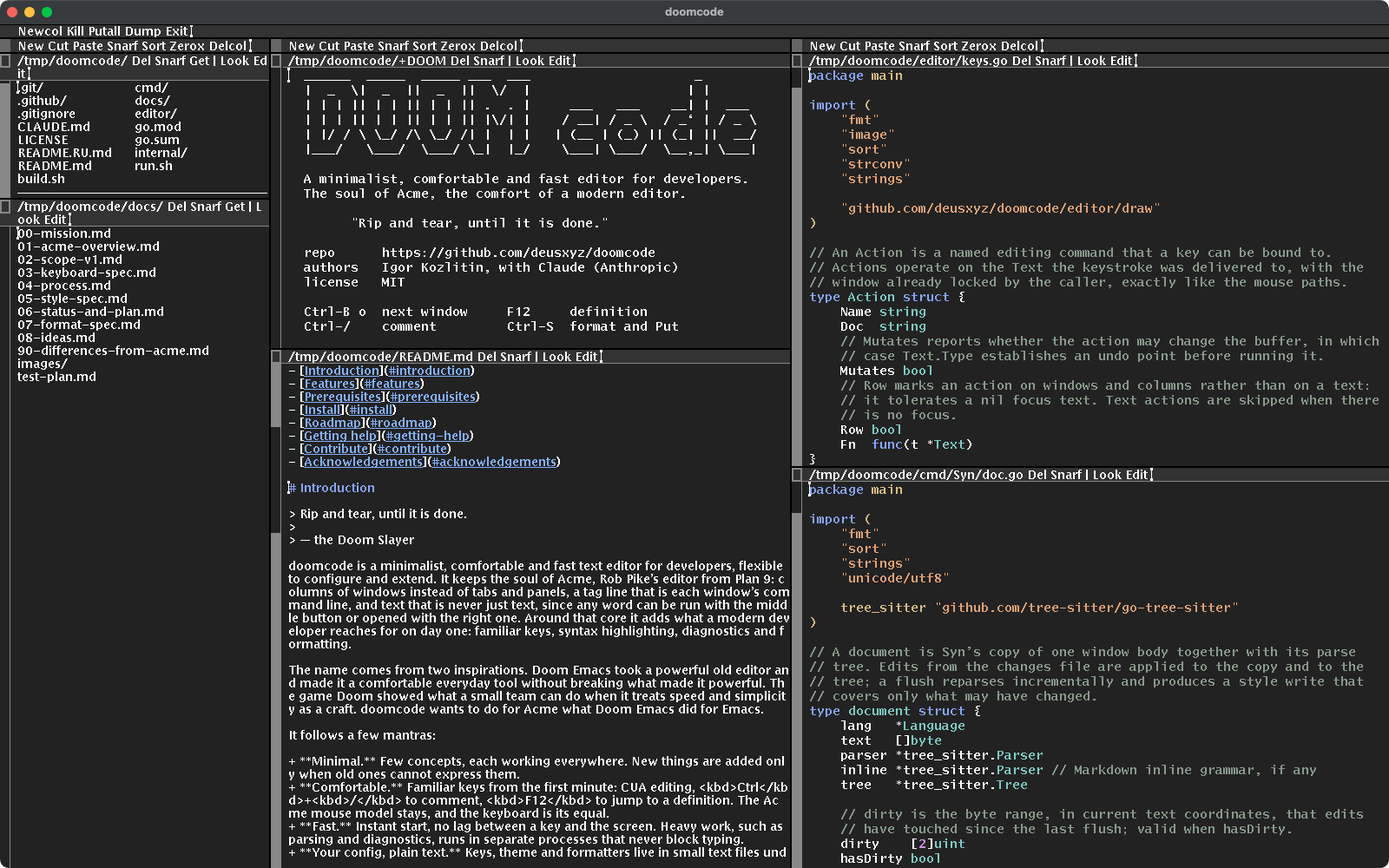
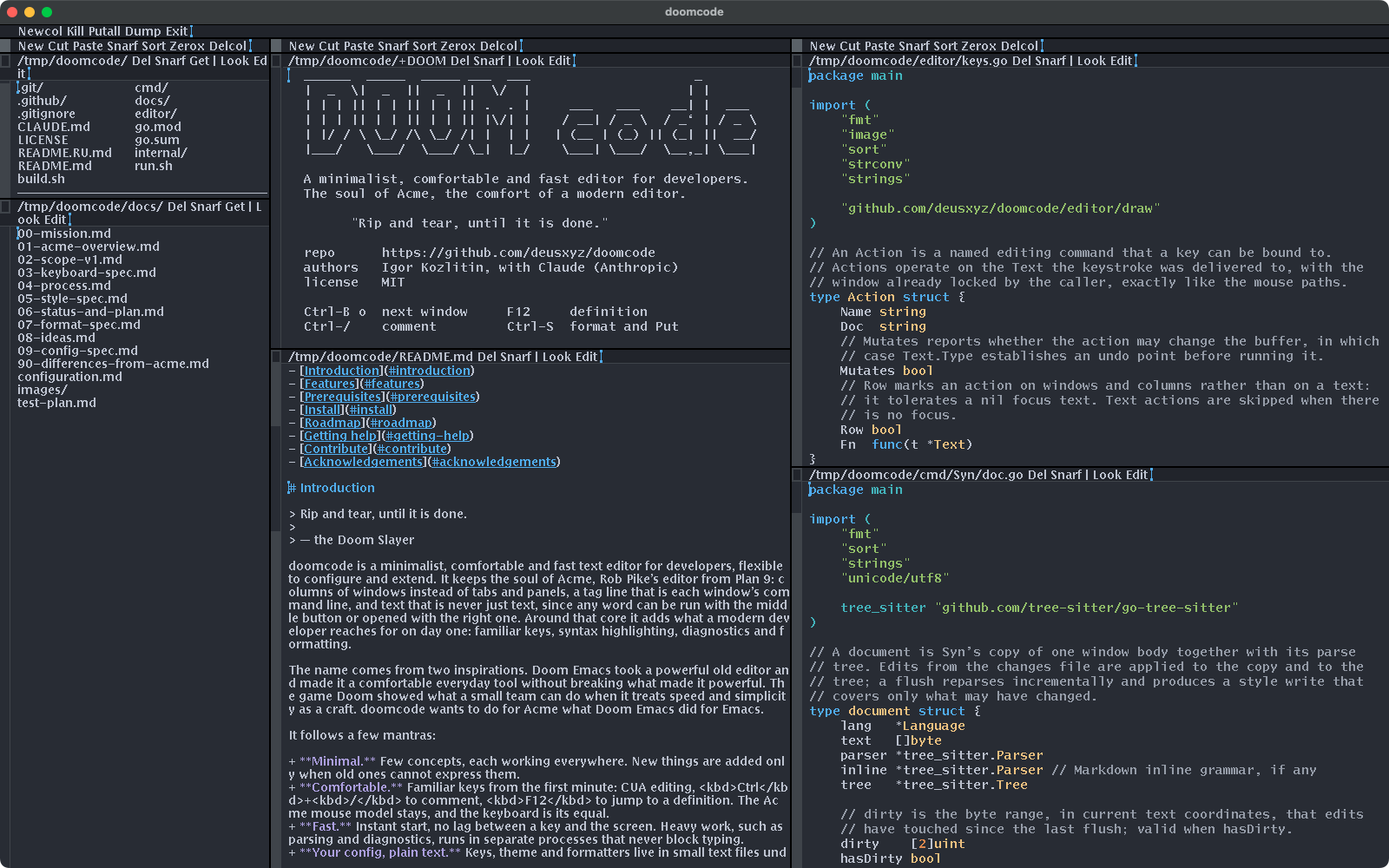
docs: theme style guide; decisions on the configuration spec
docs/10-theme-style-guide.md sets the principles and contrast ranges
for doomcode's palettes and records how doom-light and doom-dark were
derived. The configuration spec takes the user's answers: a general
config file next to keys, theme and fmt; polling the system appearance
every 5 seconds; doom-light by default; fonts to be chosen from
screenshots. The README screenshot is retaken in doom-dark, and the
screenshot script now takes an output path and fonts.

diff --git a/docs/09-config-spec.md b/docs/09-config-spec.md
@@ -1,6 +1,6 @@
 # Настройка: конфиг, системная тема, мягкие палитры (идеи 2, 3 и 6)
 
-Черновик спецификации от 2026-10-08. Идеи из `docs/08` §2, §3, §6, замечание пользователя: «непонятно, как настраивать редактор». Текущее устройство описано в `docs/configuration.md`. Решения пользователя отмечены «**Решено**», мои предложения — «**Предлагаю**», вопросы — в §7.
+Спецификация от 2026-10-08, вопросы §7 решены пользователем в тот же день. Идеи из `docs/08` §2, §3, §6, замечание пользователя: «непонятно, как настраивать редактор». Текущее устройство описано в `docs/configuration.md`. Решения пользователя отмечены «**Решено**», мои предложения — «**Предлагаю**», вопросы — в §7.
 
 ## 1. Цель
 
@@ -28,13 +28,13 @@
 
 ### 4.1 Общий файл `config`
 
-**Предлагаю** добавить в `~/.config/doomcode/` файл **`config`** для общих настроек, а `keys`, `theme`, `fmt` оставить отдельными: это списки, их удобно сбрасывать и переносить по частям. Формат тот же, что у остальных: `имя значение`, `#` — комментарий.
+**Решено:** добавить в `~/.config/doomcode/` файл **`config`** для общих настроек, а `keys`, `theme`, `fmt` оставить отдельными: это списки, их удобно сбрасывать и переносить по частям. Формат тот же, что у остальных: `имя значение`, `#` — комментарий.
 
 ```
 # ~/.config/doomcode/config
 font          /mnt/font/HelveticaNeue/14a/font
 font.fixed    /mnt/font/Menlo-Regular/14a/font
-palette       auto            # auto | имя палитры | путь к файлу темы
+palette       doom-light      # auto | имя палитры | путь к файлу темы
 palette.light doom-light      # для auto
 palette.dark  doom-dark
 window        1600x1000       # как -W
@@ -67,11 +67,11 @@ tabexpand     off
 
 ### 5.1 `palette auto`
 
-**Предлагаю** по умолчанию `palette auto`: светлая палитра, когда система в светлом оформлении, тёмная — в тёмном, с переключением на ходу.
+**Решено:** режим `palette auto` есть, но **по умолчанию `doom-light`** (и в коде, и в примере конфига); `auto` включается строкой в конфиге: светлая палитра, когда система в светлом оформлении, тёмная — в тёмном, с переключением на ходу.
 
 - **Как узнать оформление.** macOS: `defaults read -g AppleInterfaceStyle` (выводит `Dark` или завершается с ошибкой в светлом режиме). Linux: `gsettings get org.gnome.desktop.interface color-scheme` (`prefer-dark`), иначе светлая.
 - **Как заметить смену.** devdraw о смене оформления не сообщает. Варианты:
-  1. **Опрос** раз в 3 секунды из горутины редактора. Просто, работает везде, стоит один короткий процесс раз в 3 с. **Предлагаю для первой версии.**
+  1. **Опрос** раз в **5 секунд** из горутины редактора. Просто, работает везде, стоит один короткий процесс раз в 5 с. **Решено для первой версии** (пользователь: «не будем сильно напрягать систему»).
   2. **Патч devdraw** (наша ветка `devdraw/modkeys` plan9port): подписка на `AppleInterfaceThemeChangedNotification` и событие клиенту. Мгновенно, но расширяет протокол devdraw. Позже, если опрос окажется заметным.
 - **Что нужно в редакторе.** Сейчас палитру окон можно сменить только перезапуском: каждый frame копирует цвета при создании. Нужна смена палитры на ходу — заново выделить цвета, пройти все окна, колонки и строку тегов, перерисовать. Заодно это даст `Theme reload` для слотов палитры и команду `Theme <имя>` для пробы тем. Это основная работа в коде.
 
@@ -84,7 +84,7 @@ tabexpand     off
 
 **Проблема** (пользователь): резкий контраст между яркими и тёмными цветами.
 
-**Предлагаю** две новые палитры по умолчанию для `palette auto` — **`doom-light`** и **`doom-dark`**; `acme`, `vampira`, `solarized*` остаются для желающих. Правила подбора:
+**Решено:** две новые палитры — **`doom-light`** (по умолчанию) и **`doom-dark`**; правила подбора вынесены в style guide `docs/10-theme-style-guide.md`. **Сделано 2026-10-08:** обе палитры в `editor/theme/doom.go`, `doom-light` — палитра по умолчанию, тест контраста `TestDoomPalettesContrast`. doom-light — смягчённый `acme`, doom-dark — по мотивам doom-one (тема doomemacs.org); `acme`, `vampira`, `solarized*` остаются для желающих. Правила подбора:
 
 | Что | Правило |
 |---|---|
@@ -99,20 +99,21 @@ tabexpand     off
 - **Проверка** — тест считает контраст по формуле WCAG для каждой встроенной палитры и падает, если пара выходит за диапазон таблицы; плюс скриншоты обеих палитр для сравнения (сценарий `docs/images/screenshot/shoot.sh` принимает палитру).
 - **Темы файлами.** Встроенные палитры переносятся из кода в файлы `config/themes/<имя>` (формат файла `theme`), вшитые в программу; свой файл в `~/.config/doomcode/themes/` с тем же именем перекрывает встроенный. Это мост к идее 5 («больше тем»).
 
-## 7. Открытые вопросы
+## 7. Решения пользователя (2026-10-08)
 
-1. **Один общий файл `config` плюс `keys`/`theme`/`fmt`** (как в §4.1) — или всё в одном файле с разделами?
-2. **Опрос раз в 3 секунды** для `palette auto` в первой версии — подходит, или сразу патч devdraw?
-3. **Имена новых палитр** `doom-light` / `doom-dark` — подходят?
-4. **Шрифты по умолчанию на macOS**: пропорциональный для текста (как в Acme) и моноширинный для кода — или моноширинный везде? Menlo как моноширинный — подходит?
-5. **Остаётся ли `acme` (жёлтая) палитрой по умолчанию** для тех, кто запускает без конфига, или по умолчанию сразу `auto`?
+1. **Файлы:** один общий `config` плюс отдельные `keys`, `theme`, `fmt`.
+2. **`palette auto`:** опрос системы раз в 5 секунд, без патча devdraw.
+3. **Имена палитр:** `doom-light` и `doom-dark`.
+4. **Шрифты:** выбрать по скриншотам. Сняты варианты (doom-light): Lucida plan9port (как сейчас); Helvetica Neue 14 для текста + Menlo 13 для кода; Menlo 13 везде; Avenir 14 + Menlo 13; и doom-dark с Lucida и с Helvetica Neue + Menlo. Сценарий: `docs/images/screenshot/shoot.sh <палитра> <размер> <файл> <шрифт> <моноширинный>`. **Ждёт выбора.**
+5. **По умолчанию `doom-light`** и в коде, и в конфиге; светлая скопирована из `acme` со смягчением по требованиям к палитре.
+6. **Style guide тем** до реализации новых тем — `docs/10-theme-style-guide.md`; тёмная — по референсу сайта Doom Emacs.
 
 ## 8. Порядок работ (после ответов)
 
 1. Справка `docs/configuration.md` (готово) и каталог примеров `config/` с тестом «пример = умолчания».
 2. Файл `config`, порядок значений §3, шрифты; команды `Config`, `Config init/reset/reload/defaults`, клавиши `Cmd-,` и `Ctrl-B ,`.
 3. Смена палитры на ходу; `Theme <имя>`; `Theme reload` для слотов.
-4. Палитры `doom-light`/`doom-dark` с тестом контраста; темы файлами.
+4. ~~Палитры `doom-light`/`doom-dark` с тестом контраста~~ (готово 2026-10-08); темы файлами.
 5. `palette auto` с опросом системы.
 
 Каждый шаг — тесты, запись в `docs/90`, пункт в `docs/test-plan.md`, обновление `docs/configuration.md`.

diff --git a/docs/10-theme-style-guide.md b/docs/10-theme-style-guide.md
@@ -1,0 +1,58 @@
+# Style guide тем doomcode
+
+Принято 2026-10-08. Концепт, по которому делаются и проверяются палитры doomcode. Требование пользователя: мягкие цвета, рекомендуемые в дизайне, без резкого контраста между яркими и тёмными. Решения по настройке тем — `docs/09-config-spec.md`.
+
+## 1. Принципы
+
+1. **Спокойно, но читаемо.** Контраст достаточный для долгого чтения и не больше: чёрный на белом (21:1) утомляет так же, как бледный текст.
+2. **Фон не бывает чисто белым или чёрным.** Светлый — тёплый кремовый, тёмный — графитовый с лёгкой синевой.
+3. **Цвета подсветки одного веса.** Ключевые слова, строки, типы различаются оттенком, а не яркостью: ни один цвет не «кричит» сильнее остальных.
+4. **Комментарии тише кода, но читаемы.** Это не фон, а текст, который тоже читают.
+5. **Служебное не спорит с текстом.** Выделение, теги, полосы прокрутки — низкий контраст к фону, различие оттенком.
+6. **Диагностика заметна, но не тревожна.** Мягкий фон и подчёркивание приглушённым цветом; текст на фоне ошибки читается так же, как основной.
+7. **Цвета берём у проверенных палитр** с открытыми лицензиями и указываем источник.
+
+## 2. Числа
+
+Контраст по формуле WCAG 2 (отношение относительных яркостей). Проверяется тестом `TestDoomPalettesContrast` (`editor/theme/doom_test.go`) для каждой палитры doomcode.
+
+| Что | Против чего | Диапазон | Почему |
+|---|---|---|---|
+| Основной текст | фон окна | 7–12 | не ниже WCAG AAA (7), но заметно мягче 21:1 |
+| Текст тега | фон тега | 7–12 | то же |
+| Комментарии | фон окна | 4.5–6.5 | не ниже WCAG AA (4.5), тише основного |
+| Цвета подсветки (keyword, string, number, constant, type, function, preproc, heading, link) | фон окна | 4.5–9 | читаемы, но не ярче основного текста |
+| Выделение | фон окна | 1.1–1.8 | видно, но не режет |
+| Основной текст | фон диагностики (error, warning, info, hint) | ≥ 7 | текст под подчёркиванием читается как обычно |
+
+## 3. Палитры
+
+### doom-light — по умолчанию
+
+Смягчённый `acme`: тот же характер (светло-жёлтое тело, голубовато-зелёные теги), но тёплее и без насыщенности, тёмно-серый текст вместо чёрного. Цвета подсветки — приглушённые синий, коричневый, фиолетовый, бирюзовый, одной светлоты.
+
+| Слот | acme (было) | doom-light | Контраст к фону |
+|---|---|---|---|
+| фон окна | `#FFFFD5` | `#FBF8E8` | — |
+| фон тега | `#D5FFFF` | `#E4F1EF` | — |
+| текст | `#000000` | `#3A3A34` | 10.7 (было 20.5) |
+| выделение | `#EEEE9E` | `#ECE4B0` | 1.2 |
+| комментарий | `#6B7F6B` | `#646F61` | 4.9 (было 4.2 — ниже AA) |
+| keyword / string / number / type | `#1F3A93` `#8B4A1F` `#6A2E8F` `#1C6E6E` | `#35539A` `#94552B` `#7A4C98` `#2E716F` | 5.3–6.9 (было 5.9–9.8) |
+
+### doom-dark
+
+По мотивам **doom-one** из [doom-themes](https://github.com/doomemacs/themes) (Henrik Lissner, MIT) — тема официального сайта Doom Emacs (doomemacs.org; doomemacs.com с проектом не связан). Фон `#282C34`, теги `#21242B`, текст `#BBC2CF` (7.8), курсор и ключевые слова синие `#51AFEF`, строки зелёные `#98BE65`, числа оранжевые `#DA8548`, типы жёлтые `#ECBE7B`, функции пурпурные `#C678DD`, константы фиолетовые `#A9A1E1`. Отличие от оригинала: комментарии `#959CA9` вместо `#5B6268` (у doom-one 2.4:1, ниже минимума), фоны диагностики затемнены, чтобы текст на них оставался не ниже 7:1.
+
+### Остальные
+
+`acme`, `vampira`, `solarizedlight`, `solarizeddark` остаются как есть для желающих. Под этот style guide не подгоняются: `acme` — оригинал, Solarized — чужая выверенная палитра.
+
+## 4. Как добавлять тему
+
+1. Взять за основу палитру с открытой лицензией, указать источник и лицензию в комментарии.
+2. Заполнить все слоты (`tag.*`, `text.*`, `ui.*`) и все стили из `docs/configuration.md`.
+3. Проверить числа §2 — добавить палитру в `TestDoomPalettesContrast`; подогнать цвета, а не диапазоны.
+4. Снять кадр: `docs/images/screenshot/shoot.sh <палитра> 1600x1000 out.png` и сравнить с `doom-light`/`doom-dark`.
+
+Пока темы живут в коде (`editor/theme/doom.go`); по `docs/09` §6 они переедут в файлы `config/themes/`, правила те же.

diff --git a/docs/configuration.md b/docs/configuration.md
@@ -35,7 +35,7 @@ C-k        -                      # снять привязку: клавиша 
 ### `theme` — цвета
 
 ```
-palette vampira                    # базовая палитра (если не задана флагом -palette)
+palette doom-dark                  # базовая палитра (если не задана флагом -palette)
 style keyword fg=#5f87af           # цвет стиля подсветки: fg=, bg=, line=, underline/nounderline
 style comment fg=#7f7f7f
 style variable -                   # убрать стиль: рисовать как обычный текст
@@ -61,7 +61,7 @@ put off                               # не форматировать при P
 Если файла нет или в нём нет нужной строки, действует значение из кода:
 
 - **Клавиши** — таблицы в `editor/keys.go` (`defaultBindings`), `editor/keysmod.go` (клавиши с модификаторами) и `editor/prefix.go` (после Ctrl-B).
-- **Палитры** — четыре встроенные, в `editor/theme/palette.go`: `acme` (светлая, жёлтая, как в оригинальном Acme; по умолчанию), `vampira` (тёмная), `solarizedlight`, `solarizeddark`. Отдельных файлов тем пока нет.
+- **Палитры** — шесть встроенных: `doom-light` (светлая, мягкая; **по умолчанию**) и `doom-dark` (тёмная, по мотивам doom-one) в `editor/theme/doom.go`; `acme` (жёлтая, как в оригинальном Acme), `vampira` (тёмная), `solarizedlight`, `solarizeddark` в `editor/theme/palette.go`. Отдельных файлов тем пока нет. Как подобраны цвета — `docs/10-theme-style-guide.md`.
 - **Цвета подсветки** для каждой палитры — в `editor/theme/styles.go`.
 - **Форматирование** — одно правило: `.go gofmt`, в `editor/fmtfile.go`.
 
@@ -73,7 +73,7 @@ put off                               # не форматировать при P
 |---|---|---|
 | `-f шрифт` | пропорциональный шрифт | Lucida Sans из plan9port (`run.sh` передаёт `$PLAN9/font/lucsans/euro.8.font`) |
 | `-F шрифт` | моноширинный шрифт | Lucida Typewriter (`$PLAN9/font/lucm/unicode.9.font`) |
-| `-palette имя` | палитра | `acme`; перекрывает строку `palette` в файле `theme` |
+| `-palette имя` | палитра: `doom-light`, `doom-dark`, `acme`, `vampira`, `solarizedlight`, `solarizeddark` | `doom-light`; перекрывает строку `palette` в файле `theme` |
 | `-W 1600x1000@X,Y` | размер и положение окна | `1024x768` |
 | `-c N` | число колонок при запуске | 2 |
 | `-a` | автоотступ во всех окнах | выключен |

diff --git a/CLAUDE.md b/CLAUDE.md
@@ -4,7 +4,7 @@
 
 ## Где что
 
-- `docs/` — спецификации и решения, читать перед работой над разделом: `00` миссия, `01` обзор Acme, `02` рамки и инварианты, `03` клавиатура, `04` процесс и правила кода, `05` подсветка (файл `style`), `06` **состояние и план — читать первым после сжатия контекста**, `07` автоформатирование (файл `fmt`, команда `Fmt`), `08` идеи, `09` спецификация настройки (конфиг, системная тема, мягкие палитры), `configuration.md` — справка для пользователя по настройке (держать в актуальном состоянии при любом изменении настроек), `90` журнал отличий от Acme, `test-plan.md` — что пользователю осталось проверить руками (держать в актуальном состоянии).
+- `docs/` — спецификации и решения, читать перед работой над разделом: `00` миссия, `01` обзор Acme, `02` рамки и инварианты, `03` клавиатура, `04` процесс и правила кода, `05` подсветка (файл `style`), `06` **состояние и план — читать первым после сжатия контекста**, `07` автоформатирование (файл `fmt`, команда `Fmt`), `08` идеи, `09` спецификация настройки (конфиг, системная тема, мягкие палитры), `10` style guide тем, `configuration.md` — справка для пользователя по настройке (держать в актуальном состоянии при любом изменении настроек), `90` журнал отличий от Acme, `test-plan.md` — что пользователю осталось проверить руками (держать в актуальном состоянии).
 - Один Go-модуль `github.com/deusxyz/doomcode`:
   - `editor/` — редактор (бывший форк Edwood, история сохранена), пакет main и подпакеты `frame`, `file`, `theme`, `draw` и др.;
   - `cmd/Syn` — подсветчик на tree-sitter (cgo допустим: внешняя программа); `cmd/Diag` — мост диагностики acme-lsp → `style`; `internal/acmefs` — общие 9P-помощники.

diff --git a/docs/06-status-and-plan.md b/docs/06-status-and-plan.md
@@ -70,7 +70,7 @@ go test ./...                                  # все тесты модуля 
 
 11. ~~**Клавиши для команд, acme-lsp с клавиатуры**~~ Готово 2026-10-08, ждёт ручной проверки (`editor/keyrun.go`, `docs/03` §5.4): действия `run <команда>` и `tag <текст>` в файле `keys`; по умолчанию F12 и Ctrl-B d = `L def`, Ctrl-B r = `L refs`, F2 и Ctrl-B R = `tag L rn`, Option-Esc = `L comp -e`, Ctrl-B h/i/k = `L hov/impls/sig`. Проверить с запущенным acme-lsp: курсор на имени, F12 (fn+F12) — открывается определение; Ctrl-B r — ссылки в `+Errors`; F2 — в теге `L rn `, набрать имя, Esc, Ctrl-E — переименовано; Option-Esc после начала имени — дополнение.
 
-12. **Настройка: конфиг, системная тема, мягкие палитры** (идеи 2, 3, 6) — спецификация `docs/09-config-spec.md` написана 2026-10-08, **ждёт ответов пользователя на вопросы §7**; справка `docs/configuration.md` готова. Решено пользователем: порядок значений «флаг → конфиг → умолчание в коде».
+12. **Настройка: конфиг, системная тема, мягкие палитры** (идеи 2, 3, 6) — спецификация `docs/09-config-spec.md`, решения пользователя в её §7; справка `docs/configuration.md`; style guide тем `docs/10-theme-style-guide.md`. Сделано: палитры `doom-light` (по умолчанию) и `doom-dark` с тестом контраста. **Ждёт выбора шрифтов по скриншотам**, затем по порядку §8: примеры `config/`, файл `config` и команды `Config`, смена палитры на ходу, темы файлами, `palette auto` (опрос раз в 5 с).
 
 ## 5b. Отложенные задачи (решение пользователя 2026-10-08: пока не делать)
 

diff --git a/docs/90-differences-from-acme.md b/docs/90-differences-from-acme.md
@@ -29,3 +29,4 @@
 | 2026-10-08 | Put, Putall, ctl «put»; команда `Fmt` | записывают текст как есть | перед записью тело прогоняется через фильтр из файла `~/.config/doomcode/fmt` (по умолчанию `.go gofmt`); ошибка фильтра — в `+Errors`, запись всё равно идёт; `Fmt` форматирует без записи | автоформатирование из рамок v1 (docs/07) | `put off` в файле `fmt` или `.go -` |
 | 2026-10-08 | Ctrl-/, Cmd-/ | не заняты | закомментировать/раскомментировать строки, как Ctrl-B / | привычная клавиша обычных редакторов и IDE | конфиг (`C-/ -`, `Cmd-/ -`) |
 | 2026-10-08 | F12, F2, Option/Alt-Esc, Ctrl-B d r R h i k; `run`/`tag` в файле `keys` | не заняты | клавиши запускают команды как B2 (`run L def`) или дописывают их в тег (`tag L rn`); по умолчанию — команды `L` из acme-lsp | клавиатурный доступ к LSP без своего клиента | конфиг (`F12 -` и т.п.) |
+| 2026-10-08 | палитра по умолчанию | жёлтая `acme`, чёрный текст на `#FFFFD5` (контраст 20:1) | `doom-light`: тот же характер, мягче (`#3A3A34` на `#FBF8E8`, 10.7:1); новая тёмная `doom-dark` по мотивам doom-one | требование мягких цветов, style guide `docs/10` | `-palette acme` или `palette acme` в файле `theme` |

diff --git a/docs/test-plan.md b/docs/test-plan.md
@@ -18,6 +18,13 @@
 - [ ] Старый дамп `~/edwood.dump` переименовать в `~/doomcode.dump`, затем `Load` восстанавливает окна.
 - [ ] `Syn`, `Diag`, `win` из тега работают как раньше.
 
+## Палитры doom-light и doom-dark (2026-10-08)
+
+- [ ] Без флагов и конфига редактор открывается в мягкой светлой `doom-light`.
+- [ ] `./run.sh -palette doom-dark` — тёмная по мотивам doom-one; подсветка `Syn` читается в обеих.
+- [ ] Подчёркивания `Diag` и ошибок разбора заметны, но не режут глаз.
+- [ ] `-palette acme` возвращает прежнюю жёлтую.
+
 ## Клавиши для команд acme-lsp (`docs/03` §5.4)
 
 На Mac F-клавиши нажимаются с fn, если в настройках клавиатуры не включены стандартные функциональные клавиши.
